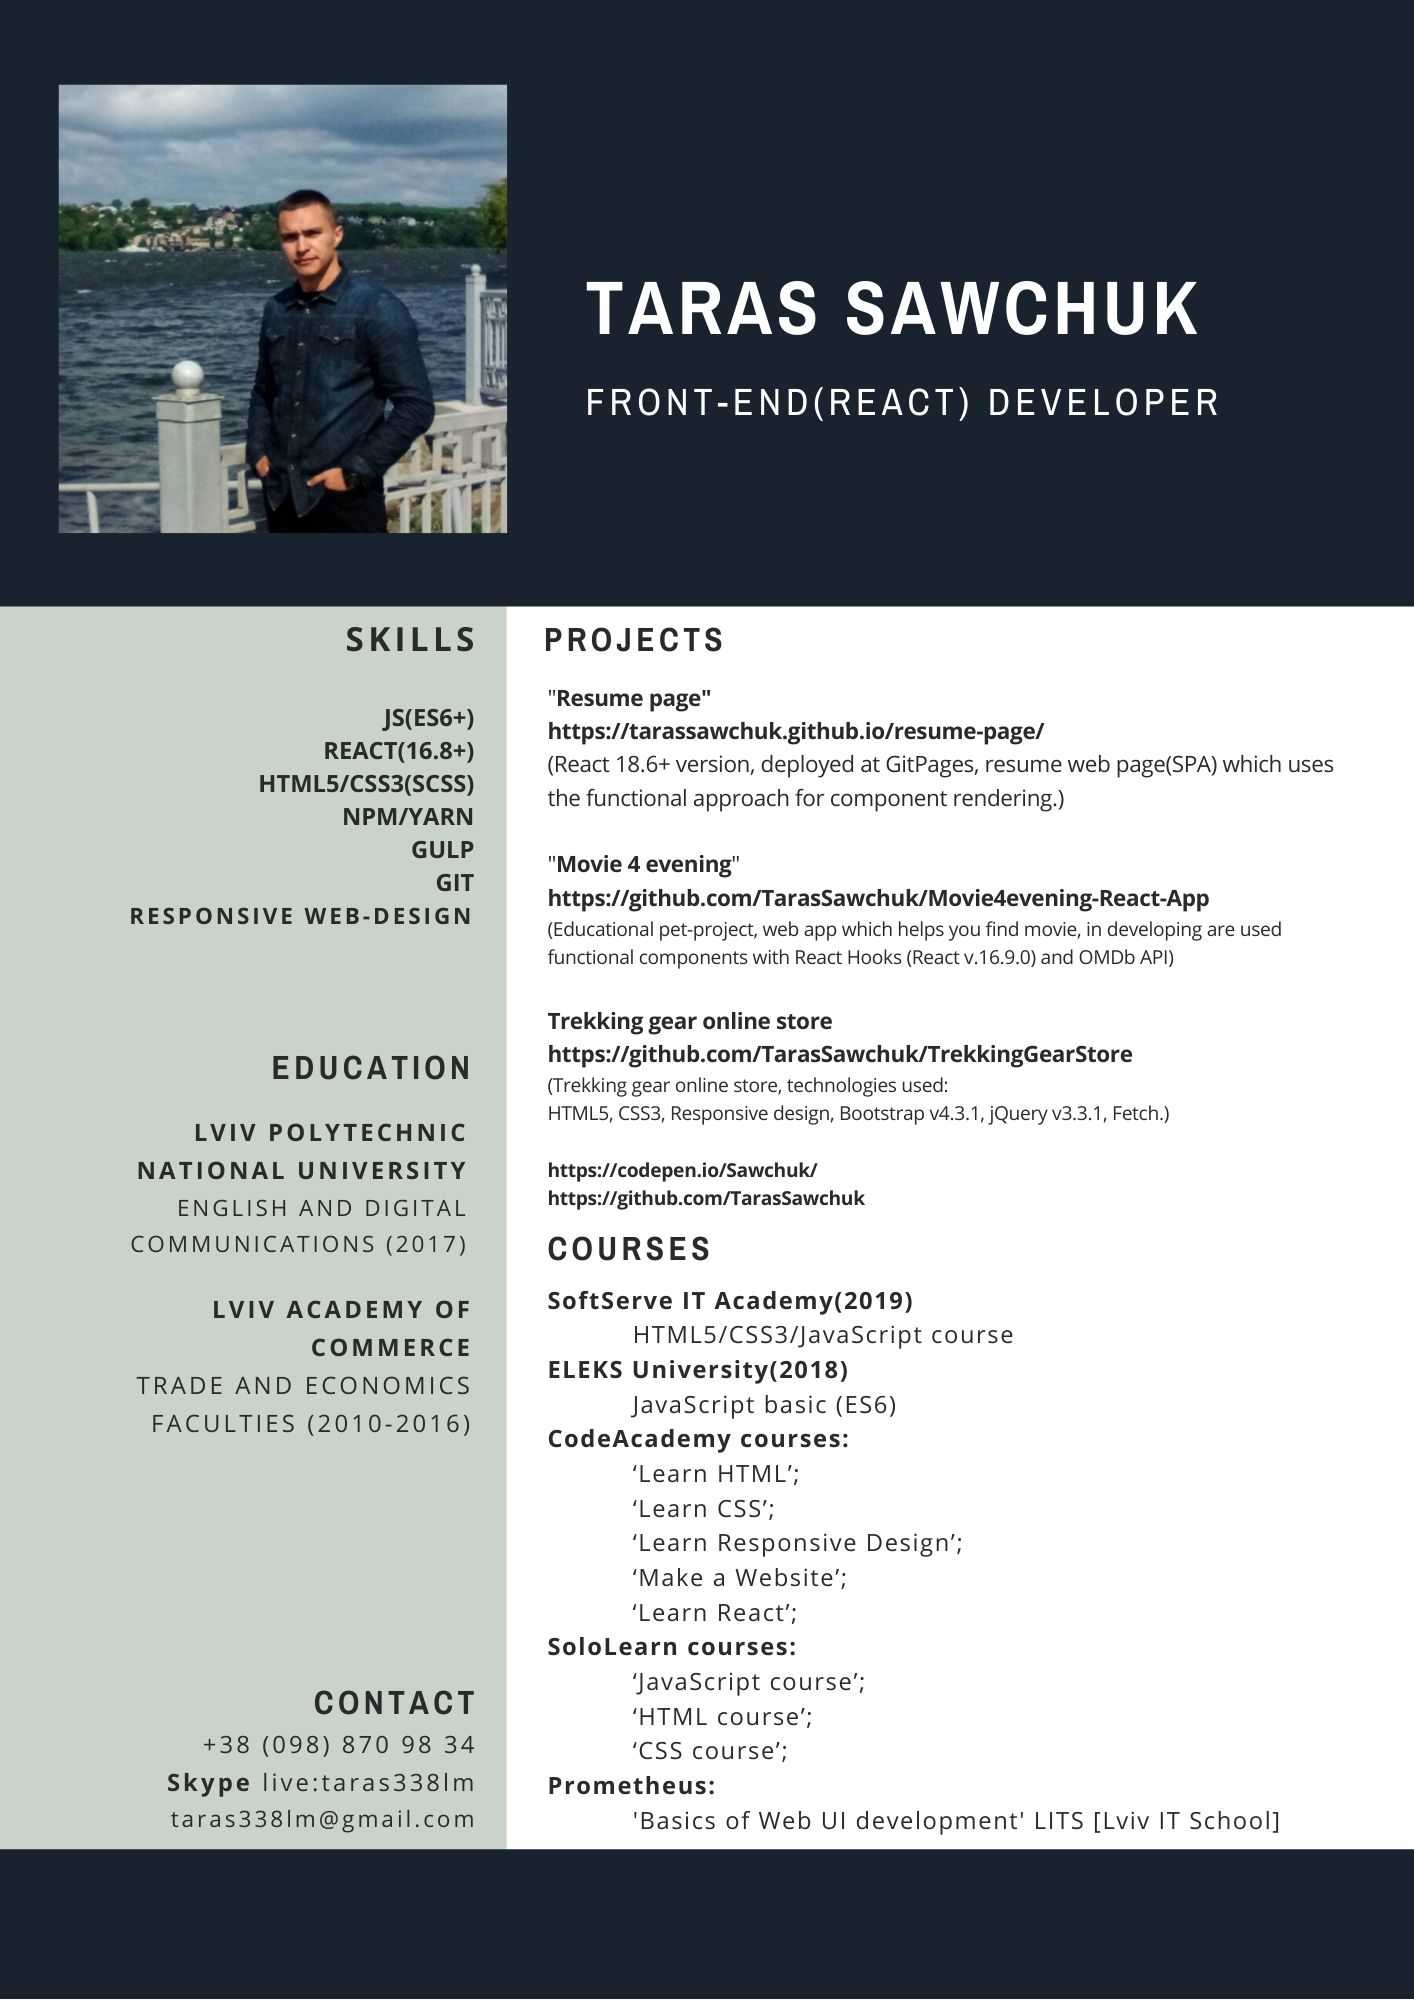
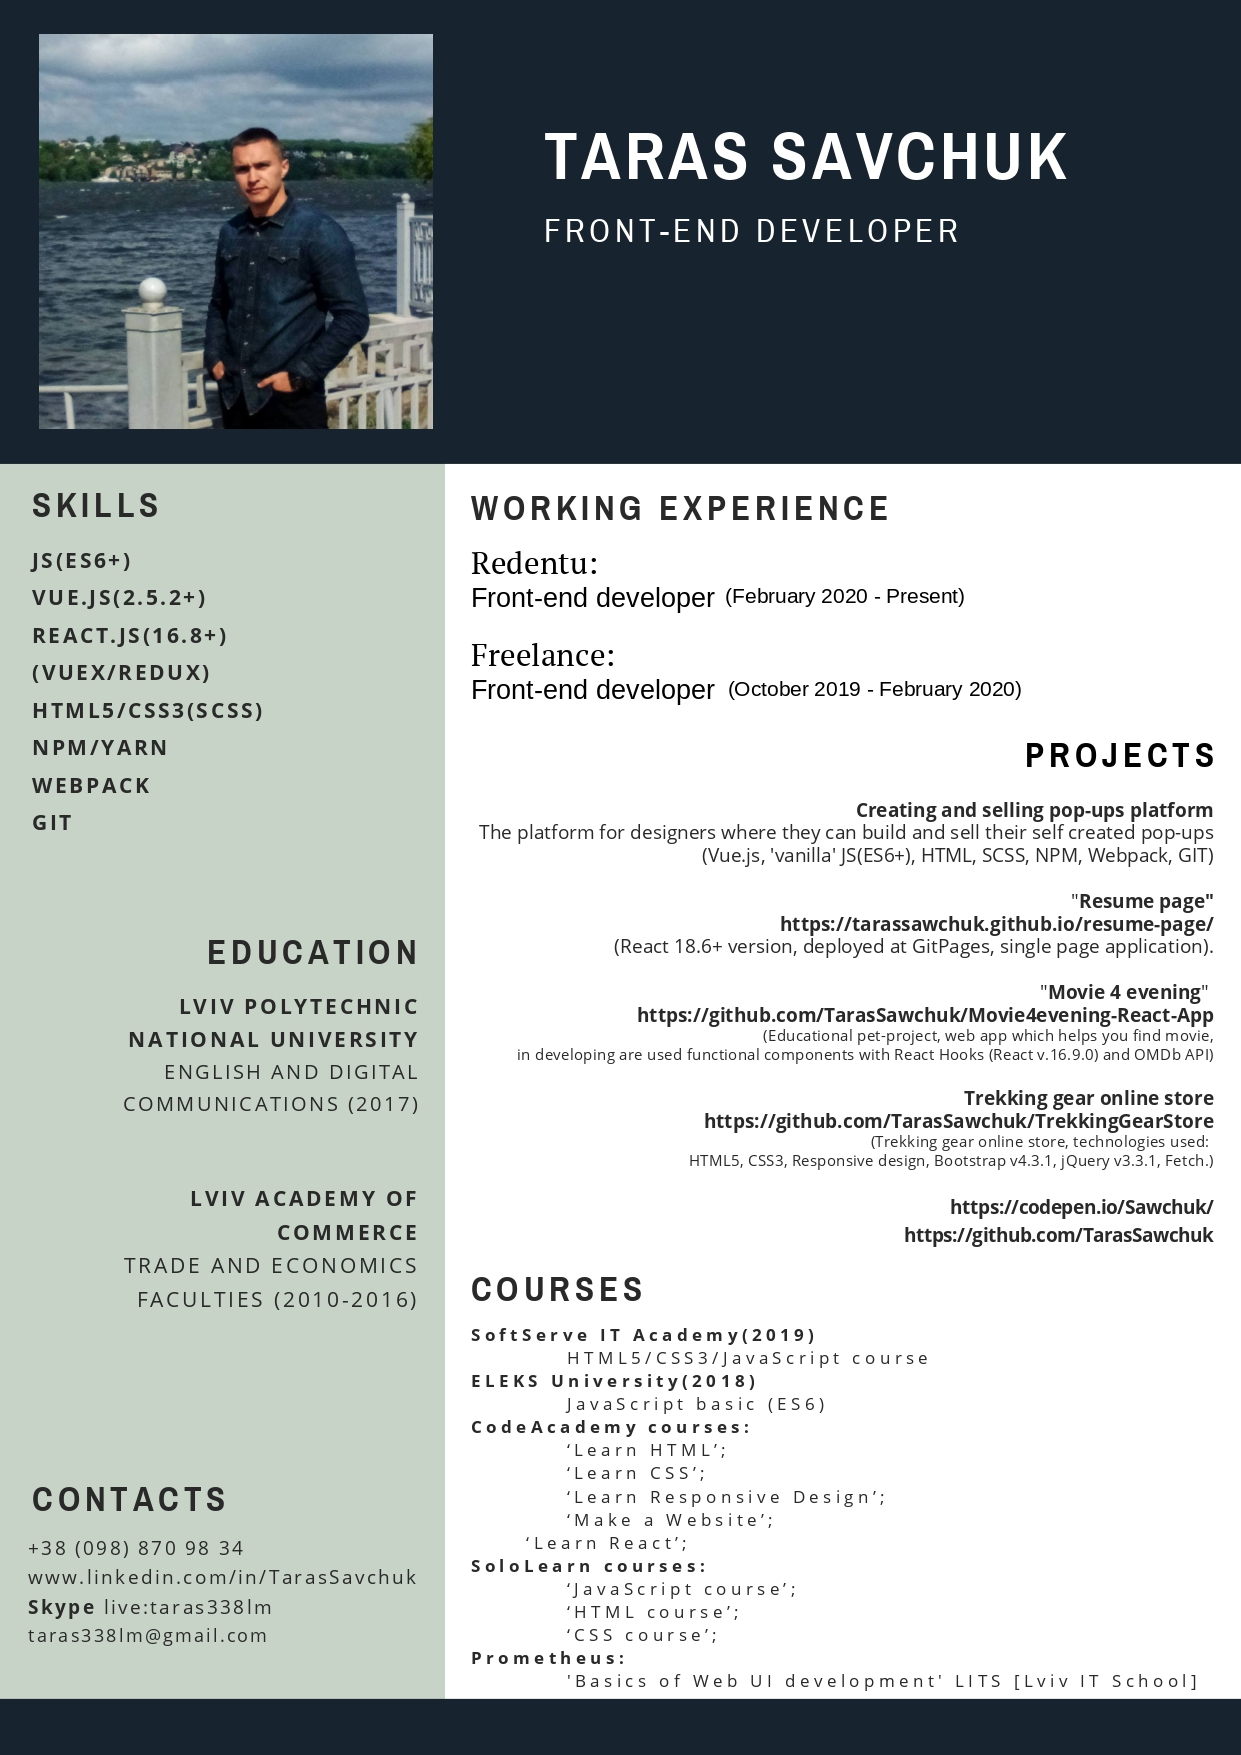
CV file update

Changed region(s): [[0.0, 0.0, 1.0, 0.9846], [0.3981, 0.0615, 0.8574, 0.2154], [0.0919, 0.5231, 0.3368, 0.7385]]

diff --git a/index.html b/index.html
@@ -1,1 +1,1 @@
-<!doctype html><html lang="en"><head><meta charset="utf-8"/><link rel="icon" href="/resume-page/favicon.ico"/><meta name="viewport" content="width=device-width,initial-scale=1"/><meta name="theme-color" content="#000000"/><meta name="description" content="Resume SPA created by Taras Sawchuk"/><link rel="apple-touch-icon" href="/resume-page/logo192.png"/><link rel="manifest" href="/resume-page/manifest.json"/><title>T.Sawchuk CV</title><link href="/resume-page/static/css/main.2be05b8a.chunk.css" rel="stylesheet"></head><body><noscript>You need to enable JavaScript to run this app.</noscript><div id="root"></div><script>!function(p){function e(e){for(var r,t,n=e[0],o=e[1],u=e[2],a=0,l=[];a<n.length;a++)t=n[a],Object.prototype.hasOwnProperty.call(i,t)&&i[t]&&l.push(i[t][0]),i[t]=0;for(r in o)Object.prototype.hasOwnProperty.call(o,r)&&(p[r]=o[r]);for(s&&s(e);l.length;)l.shift()();return c.push.apply(c,u||[]),f()}function f(){for(var e,r=0;r<c.length;r++){for(var t=c[r],n=!0,o=1;o<t.length;o++){var u=t[o];0!==i[u]&&(n=!1)}n&&(c.splice(r--,1),e=a(a.s=t[0]))}return e}var t={},i={1:0},c=[];function a(e){if(t[e])return t[e].exports;var r=t[e]={i:e,l:!1,exports:{}};return p[e].call(r.exports,r,r.exports,a),r.l=!0,r.exports}a.m=p,a.c=t,a.d=function(e,r,t){a.o(e,r)||Object.defineProperty(e,r,{enumerable:!0,get:t})},a.r=function(e){"undefined"!=typeof Symbol&&Symbol.toStringTag&&Object.defineProperty(e,Symbol.toStringTag,{value:"Module"}),Object.defineProperty(e,"__esModule",{value:!0})},a.t=function(r,e){if(1&e&&(r=a(r)),8&e)return r;if(4&e&&"object"==typeof r&&r&&r.__esModule)return r;var t=Object.create(null);if(a.r(t),Object.defineProperty(t,"default",{enumerable:!0,value:r}),2&e&&"string"!=typeof r)for(var n in r)a.d(t,n,function(e){return r[e]}.bind(null,n));return t},a.n=function(e){var r=e&&e.__esModule?function(){return e.default}:function(){return e};return a.d(r,"a",r),r},a.o=function(e,r){return Object.prototype.hasOwnProperty.call(e,r)},a.p="/resume-page/";var r=this["webpackJsonpresume-page"]=this["webpackJsonpresume-page"]||[],n=r.push.bind(r);r.push=e,r=r.slice();for(var o=0;o<r.length;o++)e(r[o]);var s=n;f()}([])</script><script src="/resume-page/static/js/2.f2d38138.chunk.js"></script><script src="/resume-page/static/js/main.d8761935.chunk.js"></script></body></html>
+<!doctype html><html lang="en"><head><meta charset="utf-8"/><link rel="icon" href="/resume-page/favicon.ico"/><meta name="viewport" content="width=device-width,initial-scale=1"/><meta name="theme-color" content="#000000"/><meta name="description" content="Resume SPA created by Taras Savchuk"/><link rel="apple-touch-icon" href="/resume-page/logo192.png"/><link rel="manifest" href="/resume-page/manifest.json"/><title>T.Savchuk CV</title><link href="/resume-page/static/css/main.2be05b8a.chunk.css" rel="stylesheet"></head><body><noscript>You need to enable JavaScript to run this app.</noscript><div id="root"></div><script>!function(p){function e(e){for(var r,t,n=e[0],o=e[1],u=e[2],a=0,l=[];a<n.length;a++)t=n[a],Object.prototype.hasOwnProperty.call(i,t)&&i[t]&&l.push(i[t][0]),i[t]=0;for(r in o)Object.prototype.hasOwnProperty.call(o,r)&&(p[r]=o[r]);for(s&&s(e);l.length;)l.shift()();return c.push.apply(c,u||[]),f()}function f(){for(var e,r=0;r<c.length;r++){for(var t=c[r],n=!0,o=1;o<t.length;o++){var u=t[o];0!==i[u]&&(n=!1)}n&&(c.splice(r--,1),e=a(a.s=t[0]))}return e}var t={},i={1:0},c=[];function a(e){if(t[e])return t[e].exports;var r=t[e]={i:e,l:!1,exports:{}};return p[e].call(r.exports,r,r.exports,a),r.l=!0,r.exports}a.m=p,a.c=t,a.d=function(e,r,t){a.o(e,r)||Object.defineProperty(e,r,{enumerable:!0,get:t})},a.r=function(e){"undefined"!=typeof Symbol&&Symbol.toStringTag&&Object.defineProperty(e,Symbol.toStringTag,{value:"Module"}),Object.defineProperty(e,"__esModule",{value:!0})},a.t=function(r,e){if(1&e&&(r=a(r)),8&e)return r;if(4&e&&"object"==typeof r&&r&&r.__esModule)return r;var t=Object.create(null);if(a.r(t),Object.defineProperty(t,"default",{enumerable:!0,value:r}),2&e&&"string"!=typeof r)for(var n in r)a.d(t,n,function(e){return r[e]}.bind(null,n));return t},a.n=function(e){var r=e&&e.__esModule?function(){return e.default}:function(){return e};return a.d(r,"a",r),r},a.o=function(e,r){return Object.prototype.hasOwnProperty.call(e,r)},a.p="/resume-page/";var r=this["webpackJsonpresume-page"]=this["webpackJsonpresume-page"]||[],n=r.push.bind(r);r.push=e,r=r.slice();for(var o=0;o<r.length;o++)e(r[o]);var s=n;f()}([])</script><script src="/resume-page/static/js/2.f2d38138.chunk.js"></script><script src="/resume-page/static/js/main.d8761935.chunk.js"></script></body></html>
